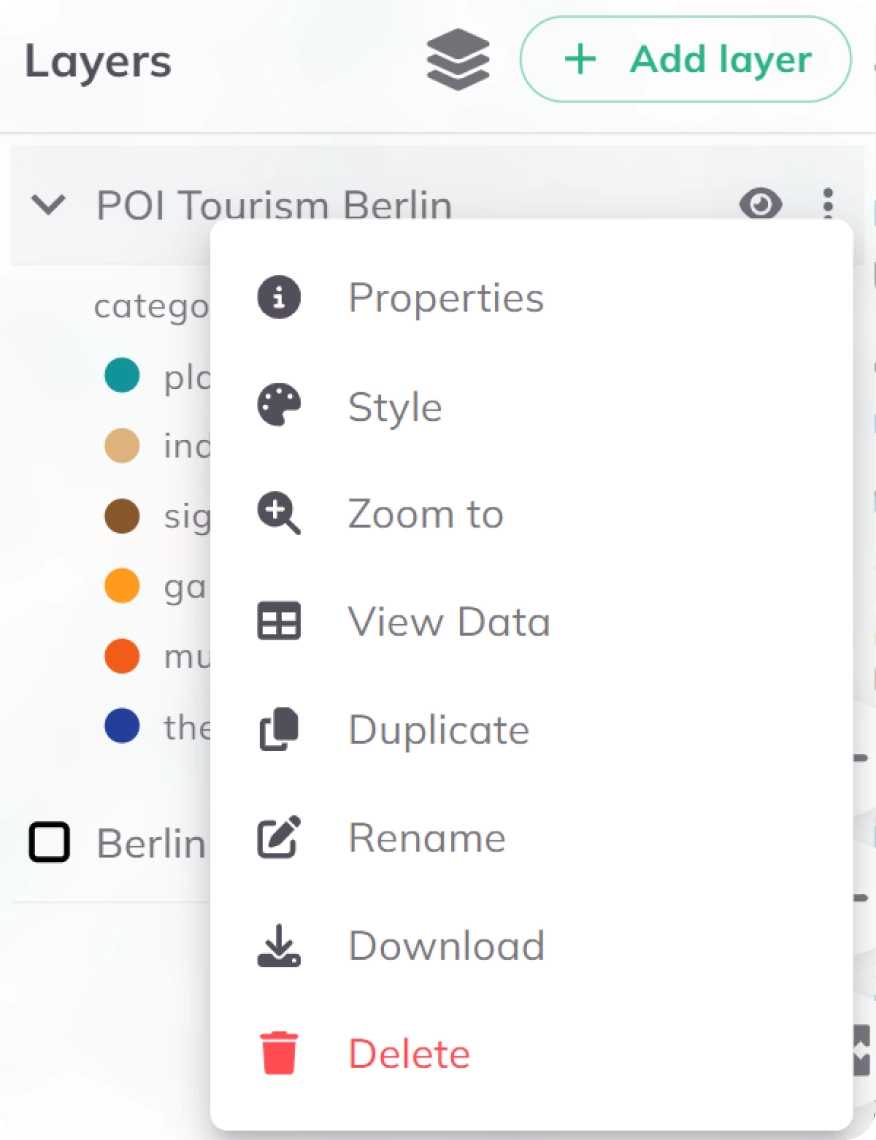
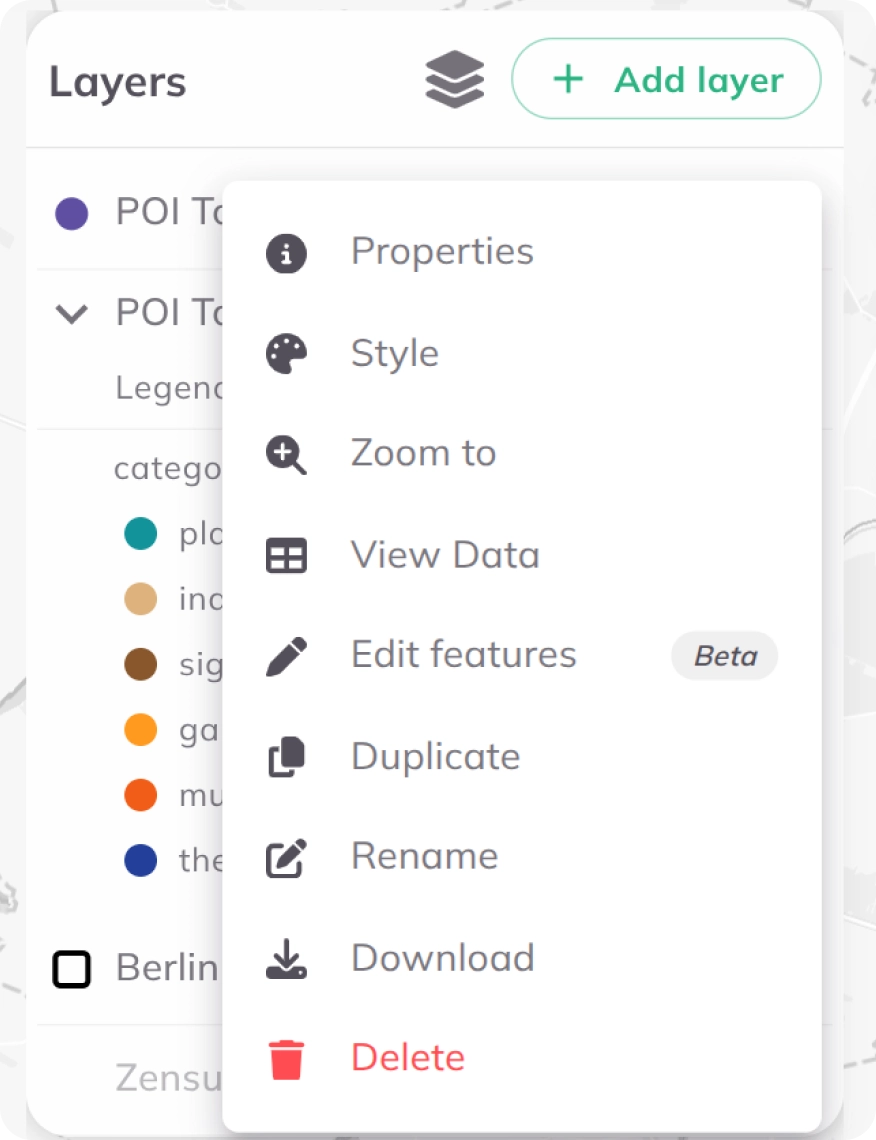
docs: add Create Layer and Edit Features to layers docs (EN + DE)

diff --git a/apps/docs/i18n/de/docusaurus-plugin-content-docs/current/map/layers.md b/apps/docs/i18n/de/docusaurus-plugin-content-docs/current/map/layers.md
@@ -26,6 +26,7 @@ Sie können Layer aus [verschiedenen Quellen](../data/dataset_types) zu Ihrer Ka
 - **Datensätze aus Ihrem Datensatz-Explorer oder dem Katalog-Explorer integrieren**
 - Neue **Datensätze von Ihrem lokalen Gerät hochladen** (GeoPackage, GeoJSON, Shapefile, KML, CSV oder XLSX)
 - Externe Layer durch Eingabe der **URL der externen Quelle** hinzufügen (WFS, WMS, WMTS, XYZ Tiles oder COG)
+- Einen **neuen leeren Layer** direkt in Ihrem Projekt erstellen
 
 <div style={{ display: 'flex', flexDirection: 'column', alignItems: 'center' }}>
   <img src={require('/img/map/layers/add_layer_de.webp').default} alt="Layer in GOAT hinzufügen" style={{ maxHeight: "flex", maxWidth: "flex", objectFit: "cover"}}/>
@@ -44,7 +45,7 @@ Sie können Layer aus [verschiedenen Quellen](../data/dataset_types) zu Ihrer Ka
 
 <div class="step">
   <div class="step-number">3</div>
-  <div class="content">Wählen Sie aus, ob Sie einen Datensatz über folgende Optionen integrieren möchten: <code>Datensatz-Explorer</code>, <code>Datensatz-Upload</code>, <code>Externer Datensatz</code> oder <code>Katalog-Explorer</code>, um <strong>Ihre Datenquelle zu wählen</strong>.</div>
+  <div class="content">Wählen Sie aus, ob Sie einen Datensatz über folgende Optionen integrieren möchten: <code>Datensatz-Explorer</code>, <code>Datensatz-Upload</code>, <code>Externer Datensatz</code>, <code>Katalog-Explorer</code> oder <code>Layer erstellen</code>, um <strong>Ihre Datenquelle zu wählen</strong>.</div>
 </div>
 
 <Tabs>
@@ -102,6 +103,14 @@ Sie können Layer aus [verschiedenen Quellen](../data/dataset_types) zu Ihrer Ka
 
 
  </TabItem>
+  <TabItem value="Create Layer" label="Layer erstellen" className="tabItemBox">
+
+<div class="step">
+  <div class="step-number">4</div>
+  <div class="content">Geben Sie einen <strong>Namen</strong> für Ihren neuen Layer ein und klicken Sie auf <code>Erstellen</code>, um <strong>einen neuen leeren Layer</strong> in Ihrem Projekt zu erstellen. Anschließend können Sie mit dem <a href="./layers#features-bearbeiten">Features bearbeiten</a>-Werkzeug Objekte hinzufügen.</div>
+</div>
+
+  </TabItem>
   <TabItem value="Dataset External" label="Externer Datensatz" default className="tabItemBox">
   
 <div class="step">
@@ -213,6 +222,9 @@ Durch Klicken auf das <code>weitere Optionen</code> <img src={require('/img/icon
 
 <p></p>
 
+#### Features bearbeiten
+
+Die Option **Features bearbeiten** *(Beta)* ermöglicht es Ihnen, **Features direkt auf der Karte hinzuzufügen, zu bearbeiten oder zu löschen**. Klicken Sie auf <code>Features bearbeiten</code> im Layer-Optionen-Menü, um das Bearbeitungspanel am unteren Bildschirmrand zu öffnen, in dem Sie mit der Attributtabelle des Layers interagieren und Geometrien auf der Karte bearbeiten können.
 
 :::tip Tipp
 

diff --git a/apps/docs/docs/map/layers.md b/apps/docs/docs/map/layers.md
@@ -29,6 +29,7 @@ You can add layers from [different sources](../data/dataset_types) to your map. 
 - Integrate **datasets from your data explorer or the catalog explorer**
 - Upload new **datasets from your local device** (GeoPackage, GeoJSON, Shapefile, KML, CSV, or XLSX). 
 - Add external layers by inserting the **url of the external source** (WFS, WMS, WMTS, XYZ Tiles, or COG).
+- **Create a new empty layer** directly in your project.
 
 
 
@@ -41,7 +42,7 @@ You can add layers from [different sources](../data/dataset_types) to your map. 
 
 <div class="step">
   <div class="step-number">2</div>
-  <div class="content">Select if you like to integrate a dataset using the: <code>Data Explorer</code>, <code>Dataset Upload</code>, <code>Dataset External</code> or <code>Catalog Explorer</code> to <strong>choose your data source</strong>.</div>
+  <div class="content">Select if you like to integrate a dataset using the: <code>Dataset Explorer</code>, <code>Dataset Upload</code>, <code>Dataset External</code>, <code>Catalog Explorer</code>, or <code>Create Layer</code> to <strong>choose your data source</strong>.</div>
 </div>
 
 <Tabs>
@@ -99,6 +100,14 @@ You can add layers from [different sources](../data/dataset_types) to your map. 
 
 
  </TabItem>
+  <TabItem value="Create Layer" label="Create Layer" className="tabItemBox">
+
+<div class="step">
+  <div class="step-number">3</div>
+  <div class="content">Enter a <strong>name</strong> for your new layer and click <code>Create</code> to <strong>create a new empty layer</strong> in your project. You can then add features to it using the <a href="./layers#edit-features">Edit features</a> tool.</div>
+</div>
+
+  </TabItem>
   <TabItem value="Dataset External" label="Dataset External" default className="tabItemBox">
   
 <div class="step">
@@ -187,6 +196,10 @@ By clicking on <img src={require('/img/icons/3dots.png').default} alt="Options" 
 </div>
 
 <p></p>
+
+### Edit Features
+
+The **Edit features** *(Beta)* option allows you to **add, modify, or delete features** directly on the map. Click on <code>Edit features</code> from the layer options menu to open the editing panel at the bottom of the screen, where you can interact with the layer's attribute table and edit geometries on the map.
 
 :::tip tip
 
